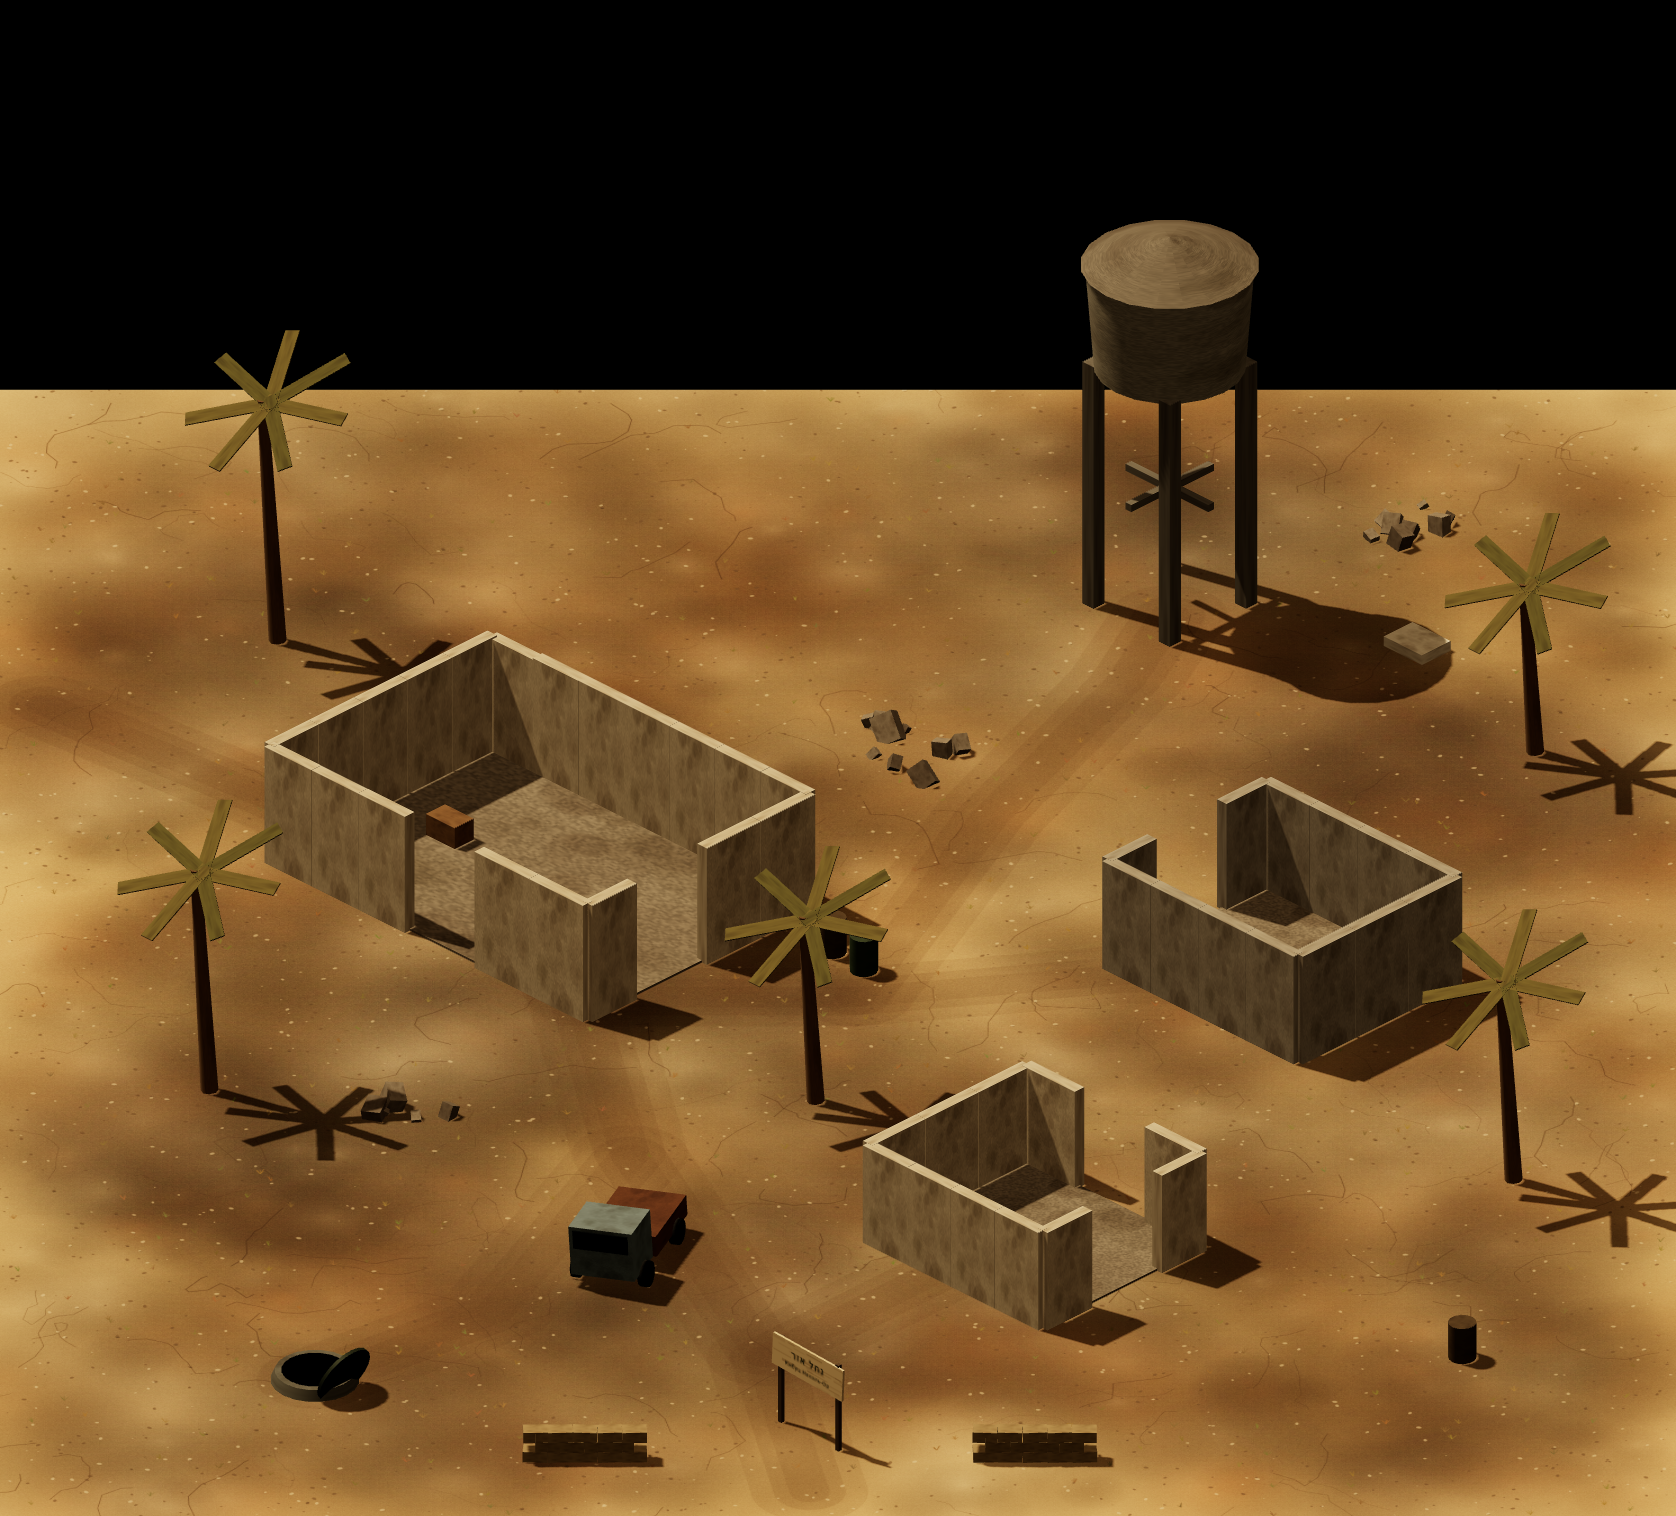
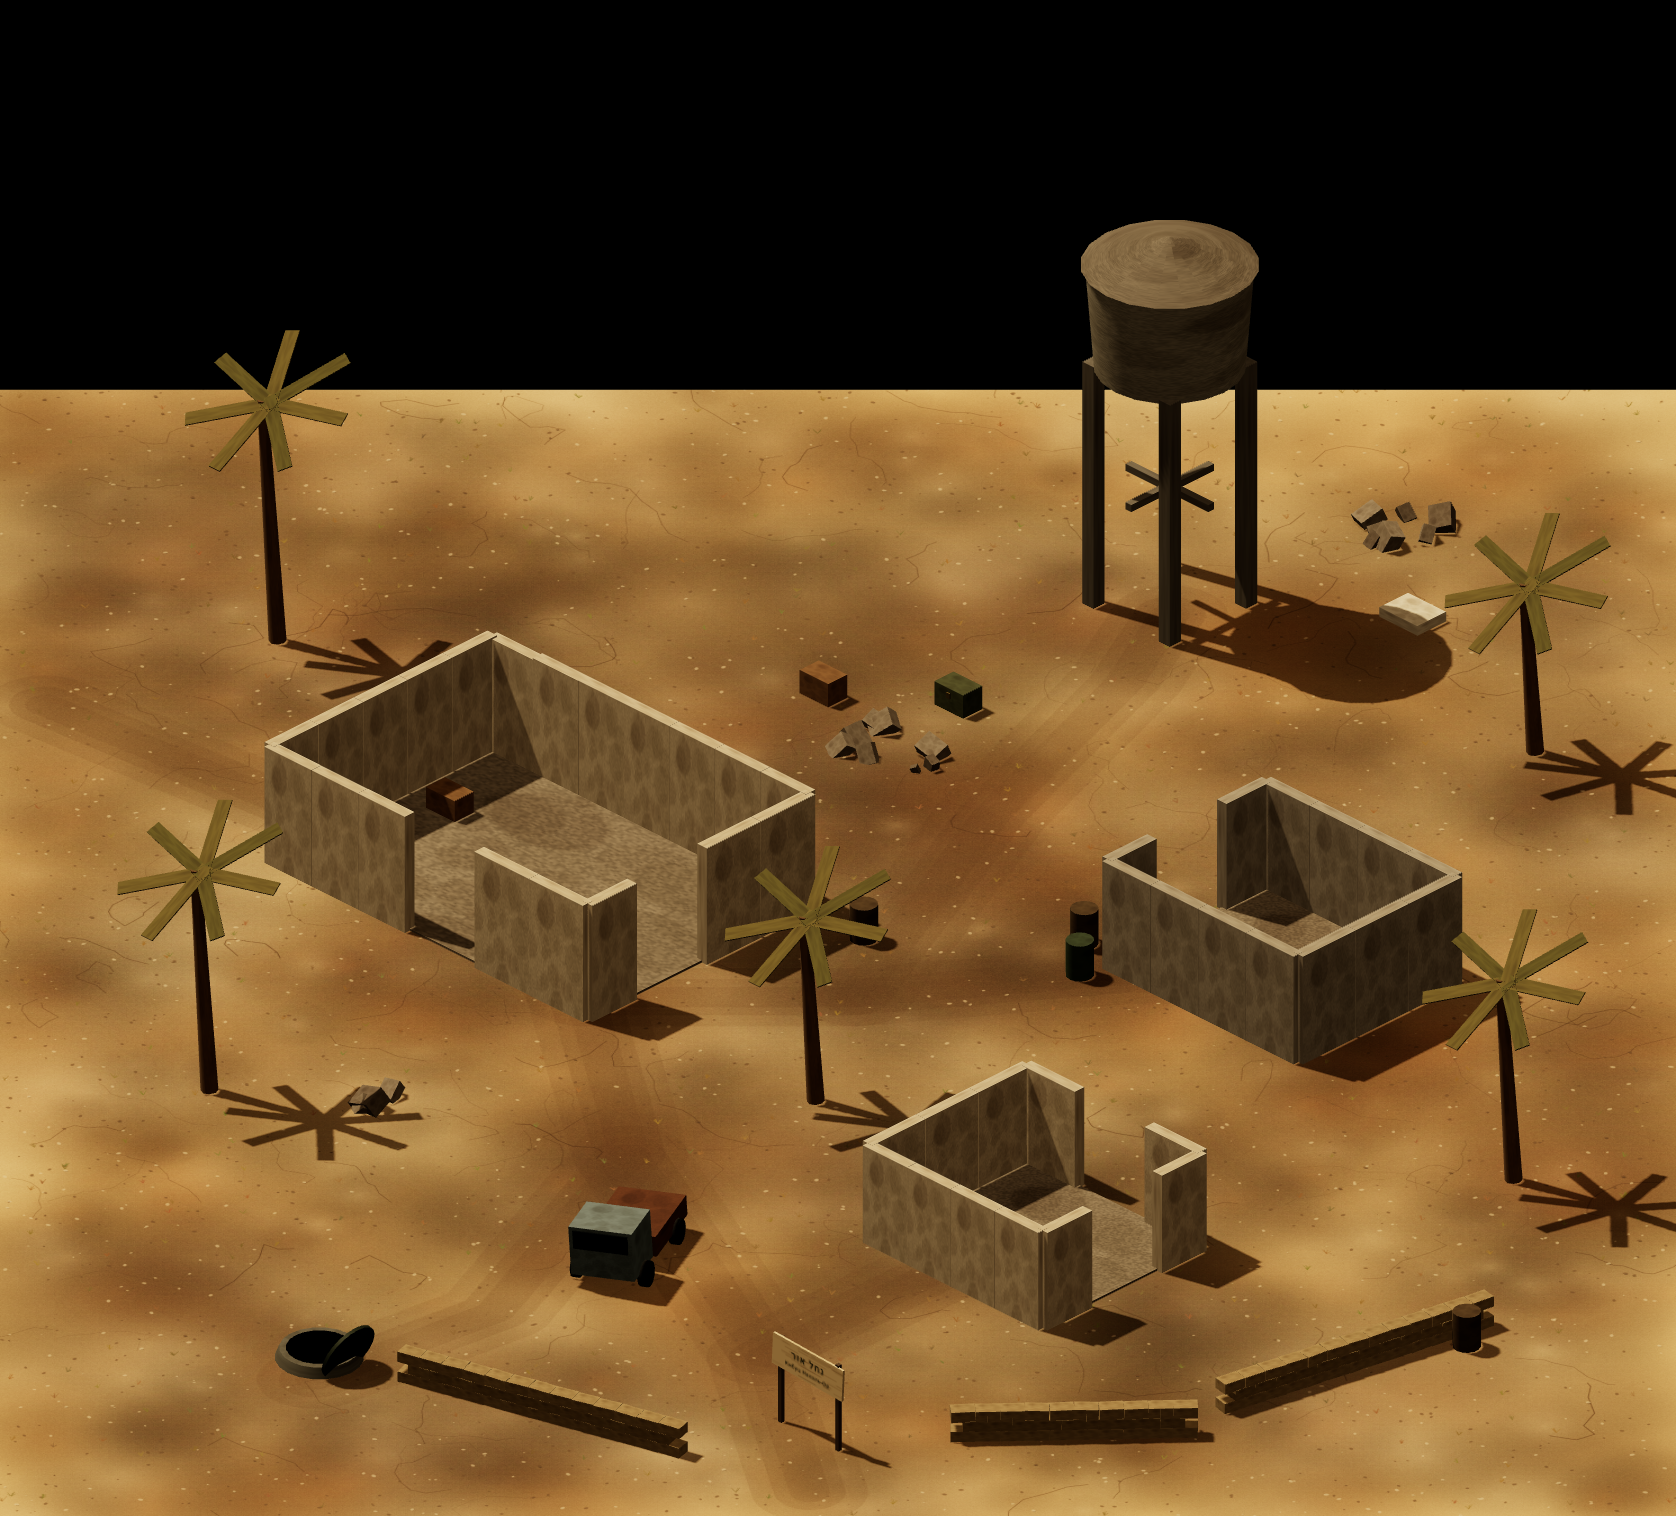
Кибуц на нарисованном фоне из Flow
- Перерисовка заготовки из Flow стала фоном локации: стены, башня и
  декорации работают как невидимые заслонки глубины и препятствия
- Ящики, бочки, мешки с песком и лаз миклата переставлены туда, где они
  нарисованы; новый тип препятствия «стенка между двумя точками»
- Щелчки по нарисованным предметам — через невидимые прокси
- Фон не проходит через тон-маппинг, цвета картинки сохраняются
- Точки появления персонажей: в метрах (u, v) и с поиском ближайшей
  свободной клетки, если старт оказался в стене
- ?nobg — посмотреть локацию на заглушках

Claude-Session: https://claude.ai/code/session_013XjA6CiNKVekdAUWx1gm9r

diff --git a/src/world/level.ts b/src/world/level.ts
@@ -8,7 +8,7 @@
 
 import * as THREE from 'three';
 import { HEX_R, CAM_YAW, SIN_PITCH } from '../config';
-import { Hex, hexToWorld, key, offsetToHex, hexToUV, uvToWorld, line } from '../core/hex';
+import { Hex, hexToWorld, key, offsetToHex, hexToUV, uvToWorld, line, neighbors } from '../core/hex';
 import { mat } from './models';
 import type { Stack } from '../rules/items';
 
@@ -44,9 +44,12 @@ export type PropDef = PropBase & (
   | { type: 'crate'; locked?: number; items: Stack[] }
   | { type: 'hatch' }
   | { type: 'sandbags'; w: number }
+  /** Мешки с песком между двумя точками (u,v) — для стенок, нарисованных под любым углом. */
+  | { type: 'wall'; to: [number, number] }
 );
 
-export interface SpawnDef { id: string; col: number; row: number; facing?: number }
+/** Где появляется персонаж: столбец/ряд гексов или точка в метрах (u, v). */
+export type SpawnDef = { id: string } & ({ col: number; row: number } | { u: number; v: number });
 
 export interface LevelDef {
   id: string;
@@ -100,6 +103,7 @@ export class Level {
     this.buildGround(painted);
     for (const p of def.props) this.buildProp(p, painted);
     this.computeBlocking();
+    if (painted) this.buildClickProxies();
     for (const ex of def.exits) {
       for (let c = ex.col; c < ex.col + ex.w; c++) for (let r = ex.row; r < ex.row + ex.h; r++) {
         const h = offsetToHex(c, r);
@@ -111,6 +115,21 @@ export class Level {
 
   centerWorld(): [number, number] {
     return uvToWorld(this.sizeU / 2, this.sizeV / 2);
+  }
+
+  /** Ближайший к h проходимый гекс (если h занят стеной — соседний снаружи). */
+  nearestPassable(h: Hex, free: (h: Hex) => boolean = () => true): Hex {
+    const seen = new Set([key(h)]);
+    const queue = [h];
+    while (queue.length) {
+      const cur = queue.shift()!;
+      if (this.passable(cur) && free(cur)) return cur;
+      for (const n of neighbors(cur)) {
+        const k = key(n);
+        if (!seen.has(k) && this.inBounds.has(k)) { seen.add(k); queue.push(n); }
+      }
+    }
+    return h;
   }
 
   passable(h: Hex) {
@@ -164,6 +183,14 @@ export class Level {
   }
 
   private buildProp(p: PropDef, painted: boolean) {
+    if (p.type === 'wall') {
+      const [x1, z1] = uvToWorld(p.u, p.v);
+      const [x2, z2] = uvToWorld(p.to[0], p.to[1]);
+      const len = Math.hypot(x2 - x1, z2 - z1);
+      const rot = (Math.atan2(-(z2 - z1), x2 - x1) * 180) / Math.PI;
+      this.buildProp({ type: 'sandbags', u: (p.u + p.to[0]) / 2, v: (p.v + p.to[1]) / 2, w: len, rot }, painted);
+      return;
+    }
     const [x, z] = uvToWorld(p.u, p.v);
     const rot = ((p.rot ?? 0) * Math.PI) / 180;
     const local = (lx: number, lz: number): [number, number] => [
@@ -376,7 +403,7 @@ export class Level {
         g.position.set(x, 0, z);
         deco(g);
         this.blockers.push({ x, z, w: 1.6, d: 1.6, h: 0.3, rot: 0, low: true });
-        this.interactives.push({ id: 'hatch', name: 'Люк миклата', desc: 'Люк убежища, из которого вы вышли. За спиной — сто лет темноты. Назад дороги нет.', hex: this.nearestHex(x, z), object: g, kind: 'hatch' });
+        this.interactives.push({ id: 'hatch', name: 'Аварийный лаз миклата', desc: 'Бетонная труба аварийного выхода из миклата № 7. Через неё вы и выбрались наружу. За спиной — сто лет темноты, назад дороги нет.', hex: this.nearestHex(x, z), object: g, kind: 'hatch' });
         break;
       }
       case 'sandbags': {
@@ -394,6 +421,19 @@ export class Level {
         this.blockers.push({ x, z, w: p.w, d: 0.45, h: 0.8, rot, low: true });
         break;
       }
+    }
+  }
+
+  /** На нарисованном фоне декорации скрыты; по невидимым коробкам того же размера можно щёлкать. */
+  private buildClickProxies() {
+    const m = new THREE.MeshBasicMaterial({ colorWrite: false, depthWrite: false });
+    for (const it of this.interactives) {
+      const box = new THREE.Box3().setFromObject(it.object, true);
+      const size = box.getSize(new THREE.Vector3()).max(new THREE.Vector3(0.8, 0.6, 0.8));
+      const proxy = new THREE.Mesh(new THREE.BoxGeometry(size.x, size.y, size.z), m);
+      box.getCenter(proxy.position);
+      this.root.add(proxy);
+      it.object = proxy;
     }
   }
 
@@ -453,7 +493,7 @@ export class Level {
     const w = bg.width / bg.ppu, h = bg.height / bg.ppu;
     const plane = new THREE.Mesh(
       new THREE.PlaneGeometry(w, h),
-      new THREE.MeshBasicMaterial({ map: tex, depthTest: false, depthWrite: false }),
+      new THREE.MeshBasicMaterial({ map: tex, depthTest: false, depthWrite: false, toneMapped: false }),
     );
     plane.renderOrder = -10;
     const right = new THREE.Vector3(1, 0, 0).applyQuaternion(camera.quaternion);

diff --git a/src/data/kibbutz.ts b/src/data/kibbutz.ts
@@ -15,20 +15,24 @@ export const KIBBUTZ: LevelDef = {
   cols: 48,
   rows: 56,
   groundColor: 0xd2b27a,
+  // Фон перерисован во Flow из заготовки docs/guides/kibbutz-blockout.png
+  // (исходник: assets/incoming/backgrounds/kibbutz-flow-a.jpg, приведён к
+  // пропорциям заготовки и увеличен вдвое). Калибровка — из kibbutz-calibration.json ×2.
+  background: { src: 'backgrounds/kibbutz.jpg', width: 3352, height: 3032, ppu: 90, originPx: [90, 824.42] },
   props: [
-    { type: 'hatch', u: 6, v: 43 },
+    { type: 'hatch', u: 6.1, v: 42 },
     {
       type: 'building', u: 11, v: 21, w: 10, d: 7, h: 3.4, color: PLASTER, floor: FLOOR, ruin: 0.55,
       doors: [{ side: 's', at: 0.5, width: 2.2 }, { side: 'e', at: 1, width: 2.2 }],
       name: 'Хадар-охель',
     },
-    { type: 'crate', u: 9, v: 19, id: 'diningCrate', name: 'Ящик в столовой', items: [{ id: 'loof', qty: 2 }, { id: 'ammo9', qty: 12 }, { id: 'asimon', qty: 7 }] },
+    { type: 'crate', u: 9, v: 17.8, id: 'diningCrate', name: 'Ящик в столовой', items: [{ id: 'loof', qty: 2 }, { id: 'ammo9', qty: 12 }, { id: 'asimon', qty: 7 }] },
     {
       type: 'building', u: 27.5, v: 25, w: 6, d: 5, h: 3, color: CONCRETE, floor: FLOOR, ruin: 0.35,
       doors: [{ side: 'w', at: 0, width: 2.2 }],
     },
     {
-      type: 'crate', u: 28.2, v: 25.6, id: 'armyCrate', locked: 25, name: 'Армейский ящик',
+      type: 'crate', u: 20.3, v: 13.1, id: 'armyCrate', locked: 25, name: 'Армейский ящик',
       items: [{ id: 'vest', qty: 1 }, { id: 'stim', qty: 1 }, { id: 'ammo9', qty: 20 }],
     },
     {
@@ -42,23 +46,26 @@ export const KIBBUTZ: LevelDef = {
     { type: 'palm', u: 5, v: 10, h: 6 },
     { type: 'palm', u: 33, v: 15, h: 4.2 },
     { type: 'car', u: 13, v: 37.5, rot: 25, color: 0x6e7f86 },
-    { type: 'barrel', u: 17.5, v: 24 },
-    { type: 'barrel', u: 18.2, v: 24.8, color: 0x3f4f3a },
-    { type: 'barrel', u: 31.5, v: 42 },
+    { type: 'crate', u: 17.3, v: 12.6, id: 'orangeCrate', name: 'Ящик из-под апельсинов', items: [{ id: 'loof', qty: 1 }, { id: 'asimon', qty: 4 }] },
+    { type: 'barrel', u: 18.2, v: 23.4 },
+    { type: 'barrel', u: 23.1, v: 23.6 },
+    { type: 'barrel', u: 23.0, v: 25, color: 0x3f4f3a },
+    { type: 'barrel', u: 31.6, v: 41.5 },
     { type: 'rubble', u: 19, v: 15, w: 2.5, d: 1.8, rot: 10 },
     { type: 'rubble', u: 8, v: 31, w: 1.8, d: 1.5 },
     { type: 'rubble', u: 30, v: 5, w: 2, d: 2 },
     { type: 'sign', u: 17, v: 45.5, text: 'נחל אור', sub: 'Кибуц Нахаль-Ор', id: 'gateSign' },
-    { type: 'sandbags', u: 22, v: 46.5, w: 2.8, rot: 45 },
-    { type: 'sandbags', u: 12, v: 46.5, w: 2.8, rot: 45 },
+    { type: 'wall', u: 7.9, v: 42.9, to: [14.3, 46.4] },
+    { type: 'wall', u: 20.1, v: 45.6, to: [25.4, 45.4] },
+    { type: 'wall', u: 26.1, v: 44.4, to: [31.9, 40.6] },
     {
-      type: 'box', u: 30.5, v: 10.5, w: 1.2, d: 0.9, h: 0.25, color: 0xd8d0bc, low: true,
+      type: 'box', u: 30.4, v: 9.2, w: 1.2, d: 0.9, h: 0.25, color: 0xd8d0bc, low: true,
       name: 'Кости', desc: 'Обглоданные кости. Козьи. Кажется, козьи.', id: 'bones',
     },
   ],
   spawns: [
     { id: 'player', col: 10, row: 46 },
-    { id: 'batya', col: 16, row: 31 },
+    { id: 'batya', u: 8, v: 24.8 }, // у двери столовой
     { id: 'shlomo', col: 23, row: 51 },
     { id: 'scorp1', col: 29, row: 9 },
     { id: 'scorp2', col: 37, row: 13 },

diff --git a/src/game/game.ts b/src/game/game.ts
@@ -2,7 +2,7 @@
 // действия, ИИ, взаимодействие с предметами, опыт и уровни, сохранения.
 
 import * as THREE from 'three';
-import { Hex, distance, eq, findPath, hexToWorld, key, neighbors } from '../core/hex';
+import { Hex, distance, eq, findPath, hexToWorld, key, neighbors, offsetToHex, uvToHex } from '../core/hex';
 import { clamp, pick, rand, roll100, wait, tween } from '../core/util';
 import { WALK_SPEED, RUN_SPEED } from '../config';
 import { Level, Interactive, hexShape } from '../world/level';
@@ -60,7 +60,9 @@ export class Game {
   private wanderTimers = new Map<string, number>();
 
   constructor(readonly view: View, sheet: Sheet, save?: SaveData) {
-    this.level = new Level(KIBBUTZ);
+    // ?nobg — посмотреть локацию на заглушках, без нарисованного фона.
+    const noBg = new URLSearchParams(location.search).has('nobg');
+    this.level = new Level(noBg ? { ...KIBBUTZ, background: undefined } : KIBBUTZ);
     view.setLevel(this.level);
     const bg = this.level.buildBackground(view.camera);
     if (bg) view.scene.add(bg);
@@ -68,7 +70,8 @@ export class Game {
 
     for (const sp of KIBBUTZ.spawns) {
       const d = CRITTERS[sp.id];
-      const hex = { q: sp.col, r: sp.row - (sp.col - (sp.col & 1)) / 2 };
+      const want = 'u' in sp ? uvToHex(sp.u, sp.v) : offsetToHex(sp.col, sp.row);
+      const hex = this.level.nearestPassable(want, (h) => !this.critters.some((o) => eq(o.hex, h)));
       const c = new Critter(d, hex);
       if (c.isPlayer) {
         c.sheet = sheet;

diff --git a/src/main.ts b/src/main.ts
@@ -53,7 +53,7 @@ function startGame(sheet: Sheet, save?: SaveData) {
 
   if (save) ui.log('Игра загружена.', '#a0e070');
   else {
-    ui.log('Люк миклата № 7 захлопывается у вас за спиной.');
+    ui.log('Гермодверь миклата № 7 закрывается у вас за спиной.');
     ui.log('Вокруг — руины кибуца. Где-то здесь должны быть люди. F1 — управление.');
   }
 

diff --git a/src/guide.ts b/src/guide.ts
@@ -121,7 +121,7 @@ function gridGuide(app: HTMLElement) {
 function levelGuide(app: HTMLElement, clay: boolean) {
   const params = new URLSearchParams(location.search);
   const ppu = Number(params.get('ppu') ?? 45);
-  const level = new Level(KIBBUTZ);
+  const level = new Level({ ...KIBBUTZ, background: undefined });
   // Без зелёных зон выхода.
   level.root.traverse((o) => {
     const m = (o as THREE.Mesh).material as THREE.Material | undefined;

diff --git a/docs/TODO.md b/docs/TODO.md
@@ -20,13 +20,15 @@
 
 Напиши, что ощущается не так, как в Fallout: скорость, камера, бой, интерфейс, тексты.
 
-## Шаг 3. Библия стиля (вечер)
+## Шаг 3. Библия стиля — ✅ готово
 
 Сгенерируй во Flow картинки по промптам **S1–S5** (раздел 1 PROMPTS.md), по 2–4 варианта каждой. Прикрепляй `docs/guides/grid.png` как эталон ракурса. Выбери 5–8 лучших и пришли мне. По ним я зафиксирую палитру и свет в игре.
 
-## Шаг 4. Фон кибуца (главное)
+## Шаг 4. Фон кибуца — ✅ готово, уже в игре
 
 Перерисуй заготовку `docs/guides/kibbutz-blockout.png` (или `kibbutz-clay.png`) промптом **B1**. Это проверка всего конвейера: если фон ляжет на сетку, дальше все локации делаются так же. Пришли файл, я подключу его в игру и откалибрую.
+
+> Подключён вариант `assets/incoming/backgrounds/kibbutz-flow-a.jpg`. Сейчас он увеличен обычным способом и на 1080p немного мягкий. Прогони исходник через Upscayl (×2 или ×4, модель для фото/арта) и пришли: я подставлю чёткую версию.
 
 ## Шаг 5. «Говорящая голова» Батьи
 

diff --git a/docs/PROMPTS.md b/docs/PROMPTS.md
@@ -77,7 +77,7 @@ Isometric game background: cracked white salt flats of the Dead Sea at dusk, cru
 3. Сохраните результат в **максимальном разрешении**. Если Flow даёт меньше 3500 пикселей по ширине, увеличьте картинку вдвое любым апскейлером (например, бесплатным Upscayl).
 4. Загрузите файл как `assets/incoming/backgrounds/kibbutz.png`.
 
-**B1. Кибуц Нахаль-Ор (перерисовка заготовки)**
+**B1. Кибуц Нахаль-Ор (перерисовка заготовки)** — ✅ сделано, способ работает: перерисовка совпала с заготовкой почти до пикселя.
 ```
 Repaint this 3D blockout into a finished, highly detailed game background. KEEP EXACTLY the same composition, camera angle, framing, image size, and the position, size and silhouette of every object — every wall, doorway, the water tower, palms, truck, barrels, crates, sandbags and rubble must stay exactly where they are. Only replace the flat placeholder materials with realistic detail:
 - ground: dry cracked desert earth and sand with trodden footpaths, small stones, tufts of dead grass;
